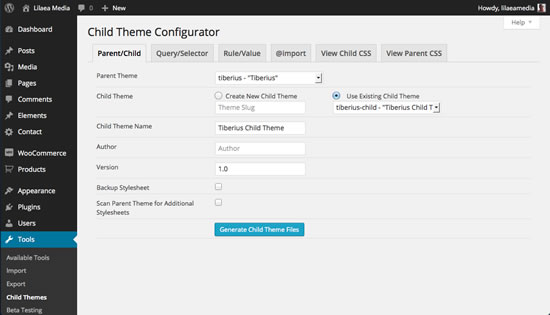
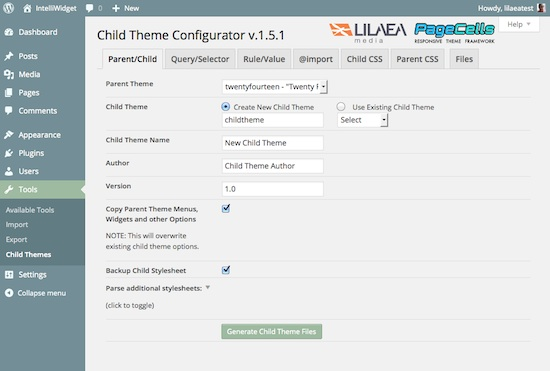
release 1.5.1 added copy parent theme options
git-svn-id: https://plugins.svn.wordpress.org/child-theme-configurator/tags/1.5.1@1000328 b8457f37-d9ea-0310-8a92-e5e31aec5664

diff --git a/js/chld-thm-cfg.js b/js/chld-thm-cfg.js
@@ -2,7 +2,7 @@
  *  Script: chld-thm-cfg.js
  *  Plugin URI: http://www.lilaeamedia.com/plugins/child-theme-configurator/
  *  Description: Handles jQuery, AJAX and other UI
- *  Version: 1.5.0
+ *  Version: 1.5.1
  *  Author: Lilaea Media
  *  Author URI: http://www.lilaeamedia.com/
  *  License: GPLv2

diff --git a/includes/class-ctc.php b/includes/class-ctc.php
@@ -6,7 +6,7 @@ if ( !defined('ABSPATH')) exit;
     Class: Child_Theme_Configurator
     Plugin URI: http://www.lilaeamedia.com/plugins/child-theme-configurator/
     Description: Main Controller Class
-    Version: 1.5.0
+    Version: 1.5.1
     Author: Lilaea Media
     Author URI: http://www.lilaeamedia.com/
     Text Domain: chld_thm_cfg
@@ -265,7 +265,6 @@ class Child_Theme_Configurator {
                             $varparts = explode('_', $postfield);
                             $varname = end($varparts);
                             ${$varname} = empty($_POST[$postfield])?'':sanitize_text_field($_POST[$postfield]);
-                            //echo $varname . ': ' . ${$varname} . LF;
                         endforeach;
                         if ($parnt):
                             if (! $this->check_theme_exists($parnt)):
@@ -301,7 +300,6 @@ class Child_Theme_Configurator {
                             $this->errors[] = __('Please enter a valid Child Theme name', 'chld_thm_cfg');
                         endif;
                         if (FALSE === $this->verify_child_dir($child)):
-                            //echo 'failed verify_child_dir' . LF;
                             $this->errors[] = __('Your theme directories are not writable.', 'chld_thm_cfg');
 	                        add_action('admin_notices', array($this, 'writable_notice')); 	
                         endif;
@@ -313,9 +311,6 @@ class Child_Theme_Configurator {
                             $this->css->set_prop('child_author', $author);
                             $this->css->set_prop('child_version', strlen($version) ? $version : '1.0');
                             $this->css->set_prop('configtype', $configtype);
-                            //echo 'configtype: ' . $configtype . LF;
-//                            global $wp_filter;
-//                            die(print_r($wp_filter, TRUE));
                             do_action('chld_thm_cfg_addl_files', $this);   // hook for add'l plugin files and subdirectories
                             $this->css->parse_css_file('parnt');
                             $this->css->parse_css_file('child');
@@ -329,6 +324,11 @@ class Child_Theme_Configurator {
 	                            add_action('admin_notices', array($this, 'writable_notice')); 	
                                 return FALSE;
                             endif; 
+                            
+                            // copy parent theme mods
+                            if (isset($_POST['ctc_parent_mods']) && ($parent_mods = get_option('theme_mods_' . $parnt))):
+                                update_option('theme_mods_' . $child, $parent_mods);
+                            endif;
                             update_option($this->optionsName, $this->css);
                             do_action('chld_thm_cfg_addl_options', $this); // hook for add'l plugin options
                             $msg = 1; //isset($_POST['ctc_scan_subdirs']) ? '9&tab=import_options' : 1;
@@ -413,16 +413,13 @@ class Child_Theme_Configurator {
     }
     
     function verify_child_dir($path) {
-        //echo 'in verify_child_dir' . LF;
         if (!$this->fs) return FALSE; // return if no filesystem access
         global $wp_filesystem;
         $themedir = $wp_filesystem->find_folder(get_theme_root());
         if (! $wp_filesystem->is_writable($themedir)) return FALSE;
-        //echo 'verify chld dir entire path: ' . $path . LF;
         $childparts = explode('/', wp_normalize_path($path));
         while (count($childparts)):
             $subdir = array_shift($childparts);
-            //echo 'verify child dir subdir: ' . $subdir . LF;
             if (empty($subdir)) continue;
             $themedir = trailingslashit($themedir) . $subdir;
             if (! $wp_filesystem->is_dir($themedir)):
@@ -554,7 +551,6 @@ class Child_Theme_Configurator {
     function unset_writable() {
         if (!$this->fs) return FALSE; // return if no filesystem access
         global $wp_filesystem;
-        //echo '<pre><code>' . LF;
         $dir        = untrailingslashit($this->css->get_child_target(''));
         $child      = $this->theme_basename('', $dir);
         $newchild   = untrailingslashit($child) . '-new';
@@ -573,7 +569,6 @@ class Child_Theme_Configurator {
         endif;
         // n -> copy entire folder (as user)
         $files = $this->css->recurse_directory($dir, NULL, TRUE);
-        //echo 'files: ' . LF . print_r($files, TRUE) . LF;
         $errors = array();
         foreach ($files as $file):
             $childfile  = $this->theme_basename($child, wp_normalize_path($file));
@@ -595,7 +590,6 @@ class Child_Theme_Configurator {
         if ($copy):
             // verify copy (as webserver)
             $newfiles = $this->css->recurse_directory(trailingslashit($themedir) . $newchild, NULL, TRUE);
-            //echo 'newfiles: ' . LF . print_r($newfiles, TRUE) . LF;
             $deleteddirs = $deletedfiles = 0;
             if (count($newfiles) == count($files)):
                 // rename old (as webserver)
@@ -607,10 +601,8 @@ class Child_Theme_Configurator {
                 // remove old files (as webserver)
                 $oldfiles = $this->css->recurse_directory(trailingslashit($themedir) . $child . '-old', NULL, TRUE);
                 array_unshift($oldfiles, trailingslashit($themedir) . $child . '-old');
-                //echo 'oldfiles: ' . LF . print_r($oldfiles, TRUE) . LF;
                 foreach (array_reverse($oldfiles) as $file):
                     if ($wp_filesystem->delete($this->fspath($file)) || (is_dir($file) && @rmdir($file)) || (is_file($file) && @unlink($file))):
-                        //echo 'deleting: ' . $file . LF;
                         $deletedfiles++;
                     endif;
                 endforeach;
@@ -621,14 +613,8 @@ class Child_Theme_Configurator {
                 $errors[] = 'newfiles != files';
             endif;
         endif;
-        //echo 'files: ' . count($files) . LF . 'newfiles: ' . count($newfiles) . LF 
-        //    . 'oldfiles: ' . count($oldfiles) . LF . 'deletedfiles: ' . $deletedfiles . LF ;
-        //echo '</code></pre>' . LF;
         if (count($errors)):
             $this->errors[] = __('There were errors while resetting permissions.', 'chld_thm_cfg') ;
-            //. count($errors) 
-            //. implode("\n", $errors) 
-            //. count($errors) . LF;   
             add_action('admin_notices', array($this, 'writable_notice')); 	
         endif;
     }

diff --git a/includes/class-ctc-ui.php b/includes/class-ctc-ui.php
@@ -5,7 +5,7 @@ if ( !defined('ABSPATH')) exit;
     Class: Child_Theme_Configurator_UI
     Plugin URI: http://www.lilaeamedia.com/plugins/child-theme-configurator/
     Description: Handles the plugin User Interface
-    Version: 1.5.0
+    Version: 1.5.1
     Author: Lilaea Media
     Author URI: http://www.lilaeamedia.com/
     Text Domain: chld_thm_cfg
@@ -155,7 +155,18 @@ class Child_Theme_Configurator_UI {
         </div>
         <div class="ctc-input-row clearfix" id="input_row_child_template">
           <div class="ctc-input-cell"> <strong>
-            <?php _e('Backup Stylesheet', 'chld_thm_cfg'); ?>
+            <?php _e('Copy Parent Theme Menus, Widgets and other Options', 'chld_thm_cfg'); ?>
+            </strong> 
+            <p><?php _e('NOTE: This will overwrite existing child theme options.', 'chld_thm_cfg'); ?></p>
+            </div>
+          <div class="ctc-input-cell">
+            <input class="ctc_checkbox" id="ctc_parent_mods" name="ctc_parent_mods" type="checkbox" 
+                value="1" />
+          </div>
+        </div>
+        <div class="ctc-input-row clearfix" id="input_row_child_template">
+          <div class="ctc-input-cell"> <strong>
+            <?php _e('Backup Child Stylesheet', 'chld_thm_cfg'); ?>
             </strong> </div>
           <div class="ctc-input-cell">
             <input class="ctc_checkbox" id="ctc_backup" name="ctc_backup" type="checkbox" 
@@ -638,9 +649,11 @@ class Child_Theme_Configurator_UI {
 <li>Enter a Name for the child theme.</li>
 <li>Enter an author for the child theme.</li>
 <li>Enter the child theme version number.</li>
-<li>If you check "Backup Stylesheet", The Child Theme Configurator will create a backup in the theme directory.</li>
+<li>Check "Copy Parent Theme Menus, Widgets and other Options", to copy parent theme modifications to the child theme. Depending on the theme, some options may need to be applied using separate theme option controls. <strong>IMPORTANT: This will overwrite existing child theme options.</strong></li>
+<li>Check "Backup Stylesheet", to create a backup of the child theme stylesheet in the child theme directory.</li>
 <li>If your theme uses additional stylesheets they will appear as checkbox options when you open the toggle arrow. Select only the stylesheets you wish to customize to reduce overhead. Remember to select them again if you reload your configuration.</li>
-<li>Click "Generate Child Theme."</li></ol>
+<li>Click "Generate Child Theme."</li>
+<li><strong>ALWAYS <a target="_blank" href="http://www.lilaeamedia.com/plugins/child-theme-configurator/#preview_activate" title="Test your child theme before activating!">TEST YOUR CHILD THEME</a> BEFORE ACTIVATING!</strong></li></ol>
 				    ', 'chld_thm_cfg'
 			    ),
 		    ) );

diff --git a/includes/class-ctc-css.php b/includes/class-ctc-css.php
@@ -6,7 +6,7 @@ if ( !defined('ABSPATH')) exit;
     Class: Child_Theme_Configurator_CSS
     Plugin URI: http://www.lilaeamedia.com/plugins/child-theme-configurator/
     Description: Handles all CSS output, parsing, normalization
-    Version: 1.5.0
+    Version: 1.5.1
     Author: Lilaea Media
     Author URI: http://www.lilaeamedia.com/
     Text Domain: chld_thm_cfg
@@ -45,7 +45,7 @@ class Child_Theme_Configurator_CSS {
     
     function __construct($parent = '') {
         // scalars
-        $this->version          = '1.5.0';
+        $this->version          = '1.5.1';
         $this->querykey         = 0;
         $this->selkey           = 0;
         $this->qskey            = 0;
@@ -439,7 +439,6 @@ class Child_Theme_Configurator_CSS {
      * accepts raw CSS as text and parses into separate properties 
      */
     function parse_css($template, $basequery = null, $parse_imports = TRUE) {
-        //echo $this->styles;
         if (FALSE === strpos($basequery, '@')):
             $basequery = 'base';
         endif;

diff --git a/child-theme-configurator.php b/child-theme-configurator.php
@@ -6,7 +6,7 @@ if ( !defined('ABSPATH')) exit;
     Plugin Name: Child Theme Configurator
     Plugin URI: http://www.lilaeamedia.com/plugins/child-theme-configurator/
     Description: Create a Child Theme from any installed Theme. Each CSS selector, rule and value can then be searched, previewed and modified.
-    Version: 1.5.0
+    Version: 1.5.1
     Author: Lilaea Media
     Author URI: http://www.lilaeamedia.com/
     Text Domain: chld_thm_cfg
@@ -16,7 +16,7 @@ if ( !defined('ABSPATH')) exit;
 */
 
     defined('LF') or define('LF', "\n");
-    define('CHLD_THM_CFG_VERSION', '1.5.0');
+    define('CHLD_THM_CFG_VERSION', '1.5.1');
     define('CHLD_THM_CFG_MAX_SELECTORS', '50000');
     define('CHLD_THM_CFG_MAX_RECURSE_LOOPS', '1000');
 
